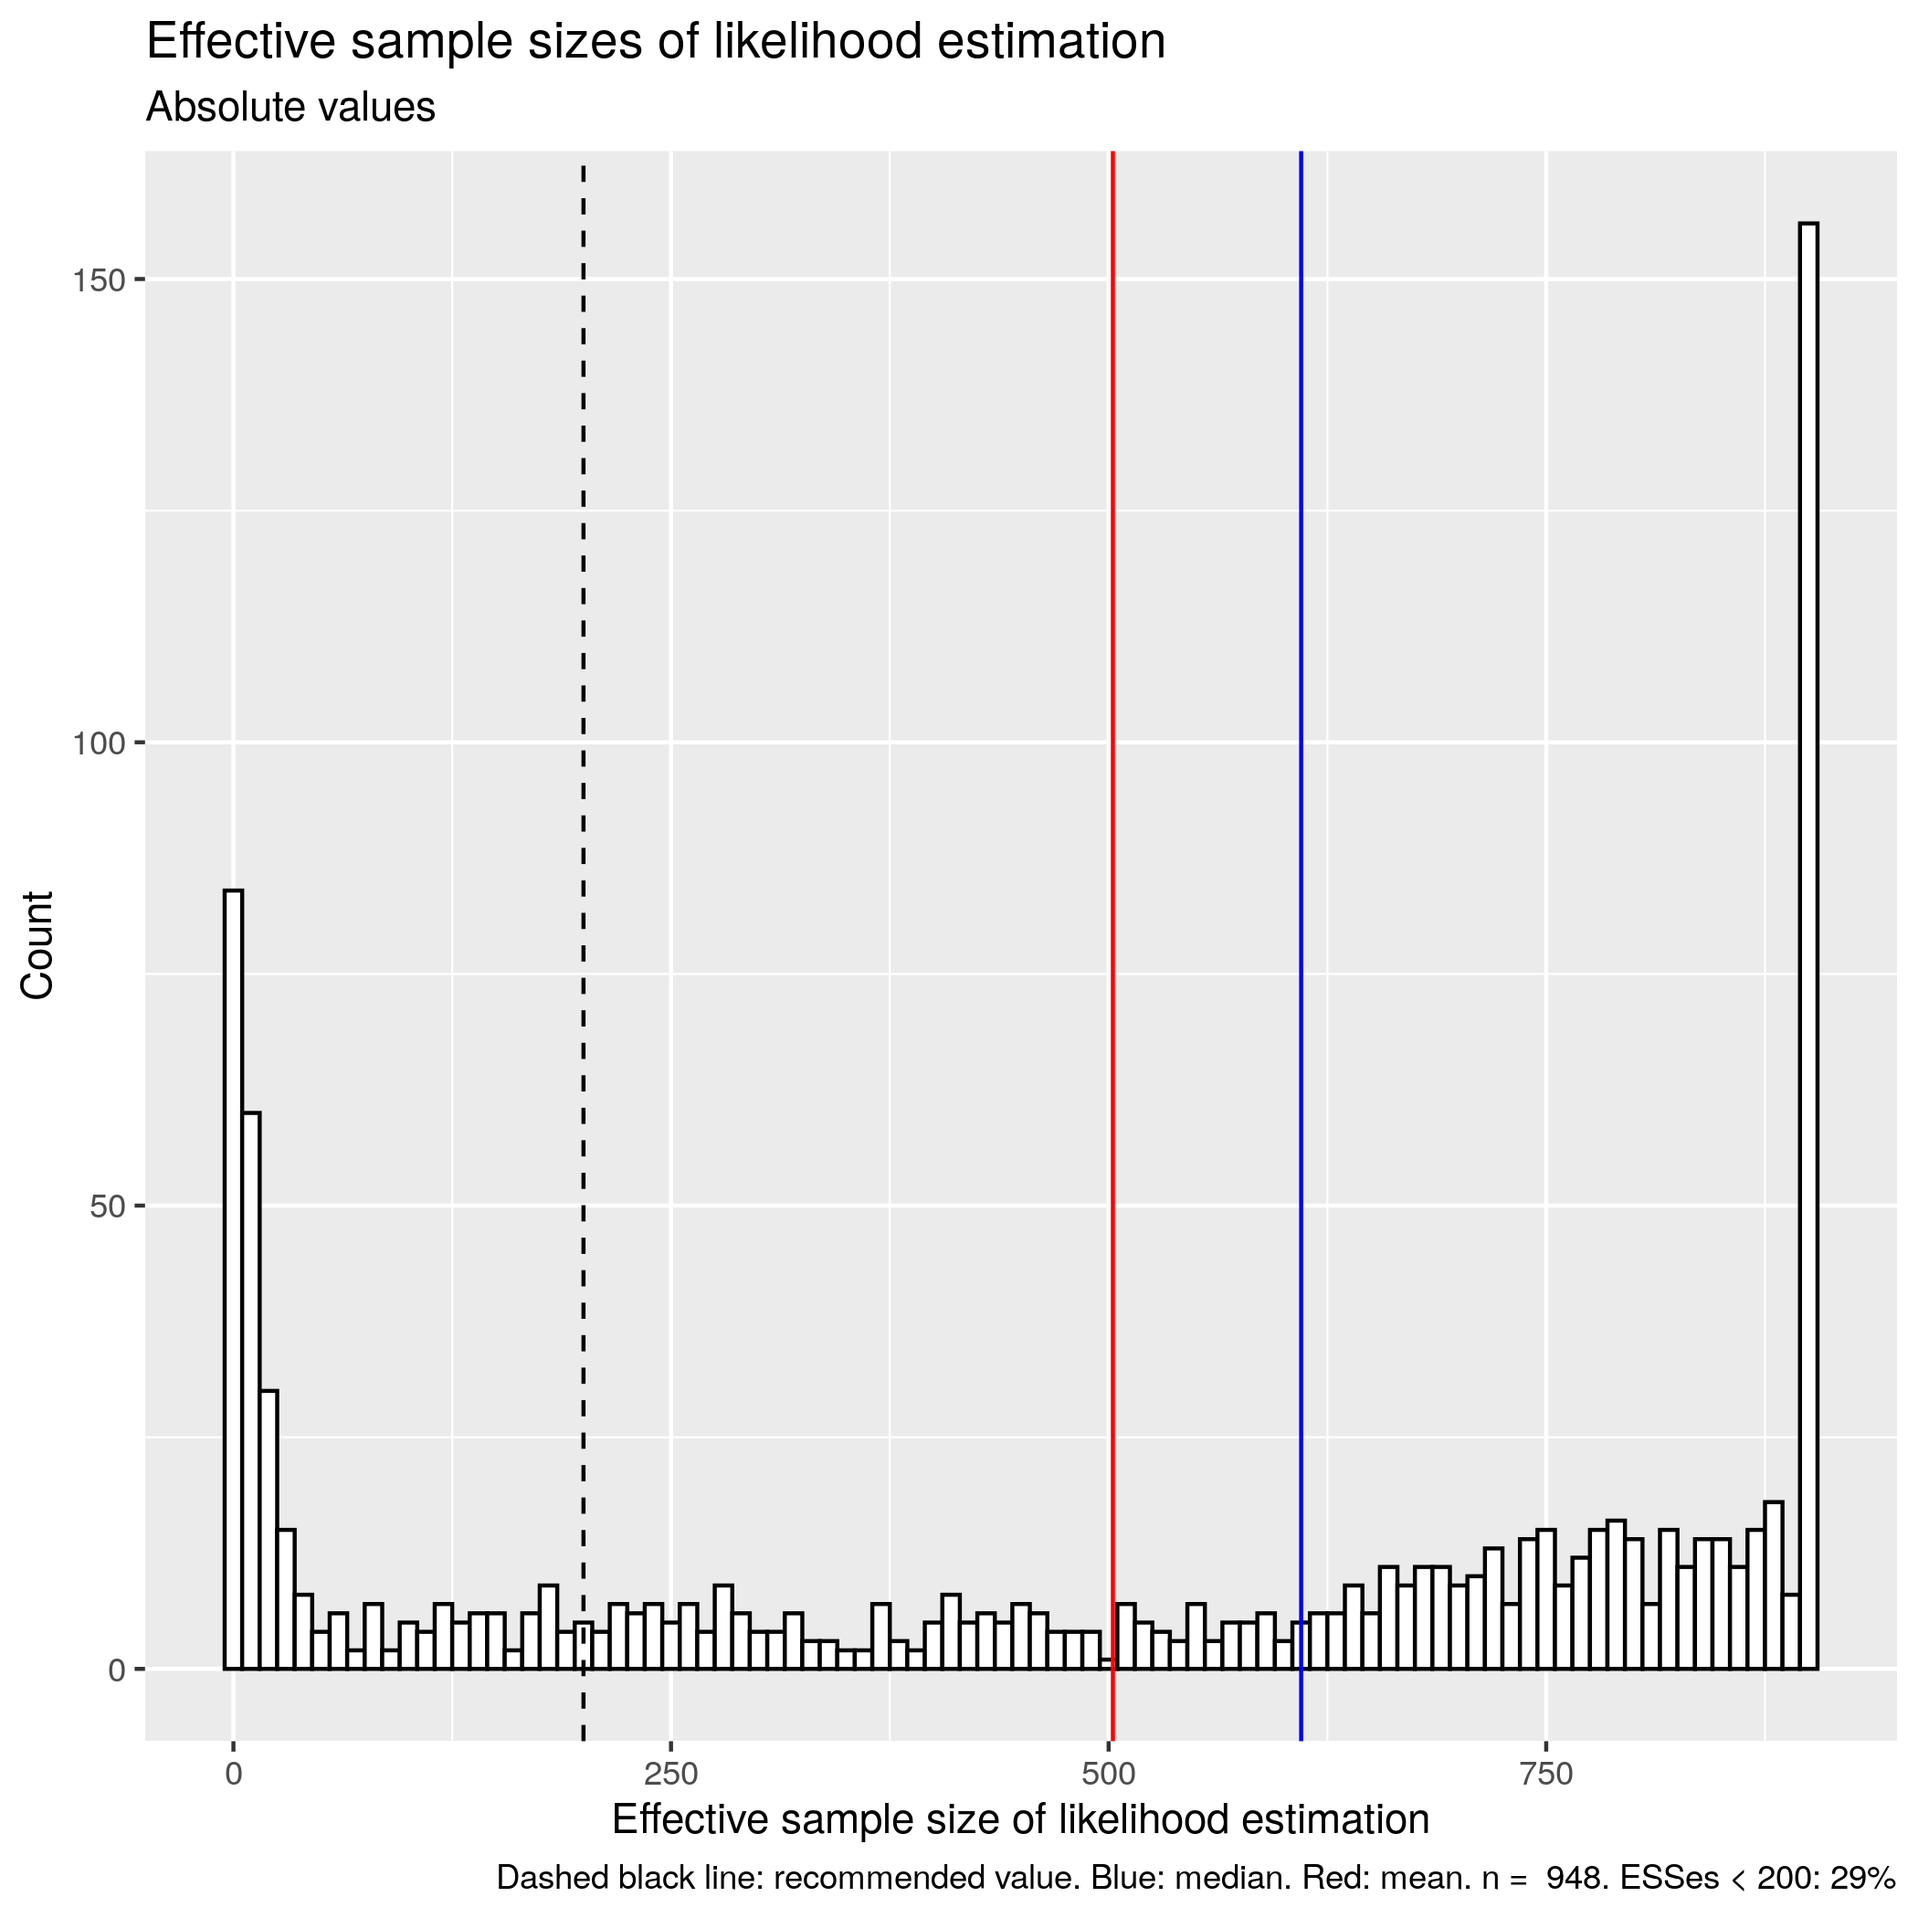
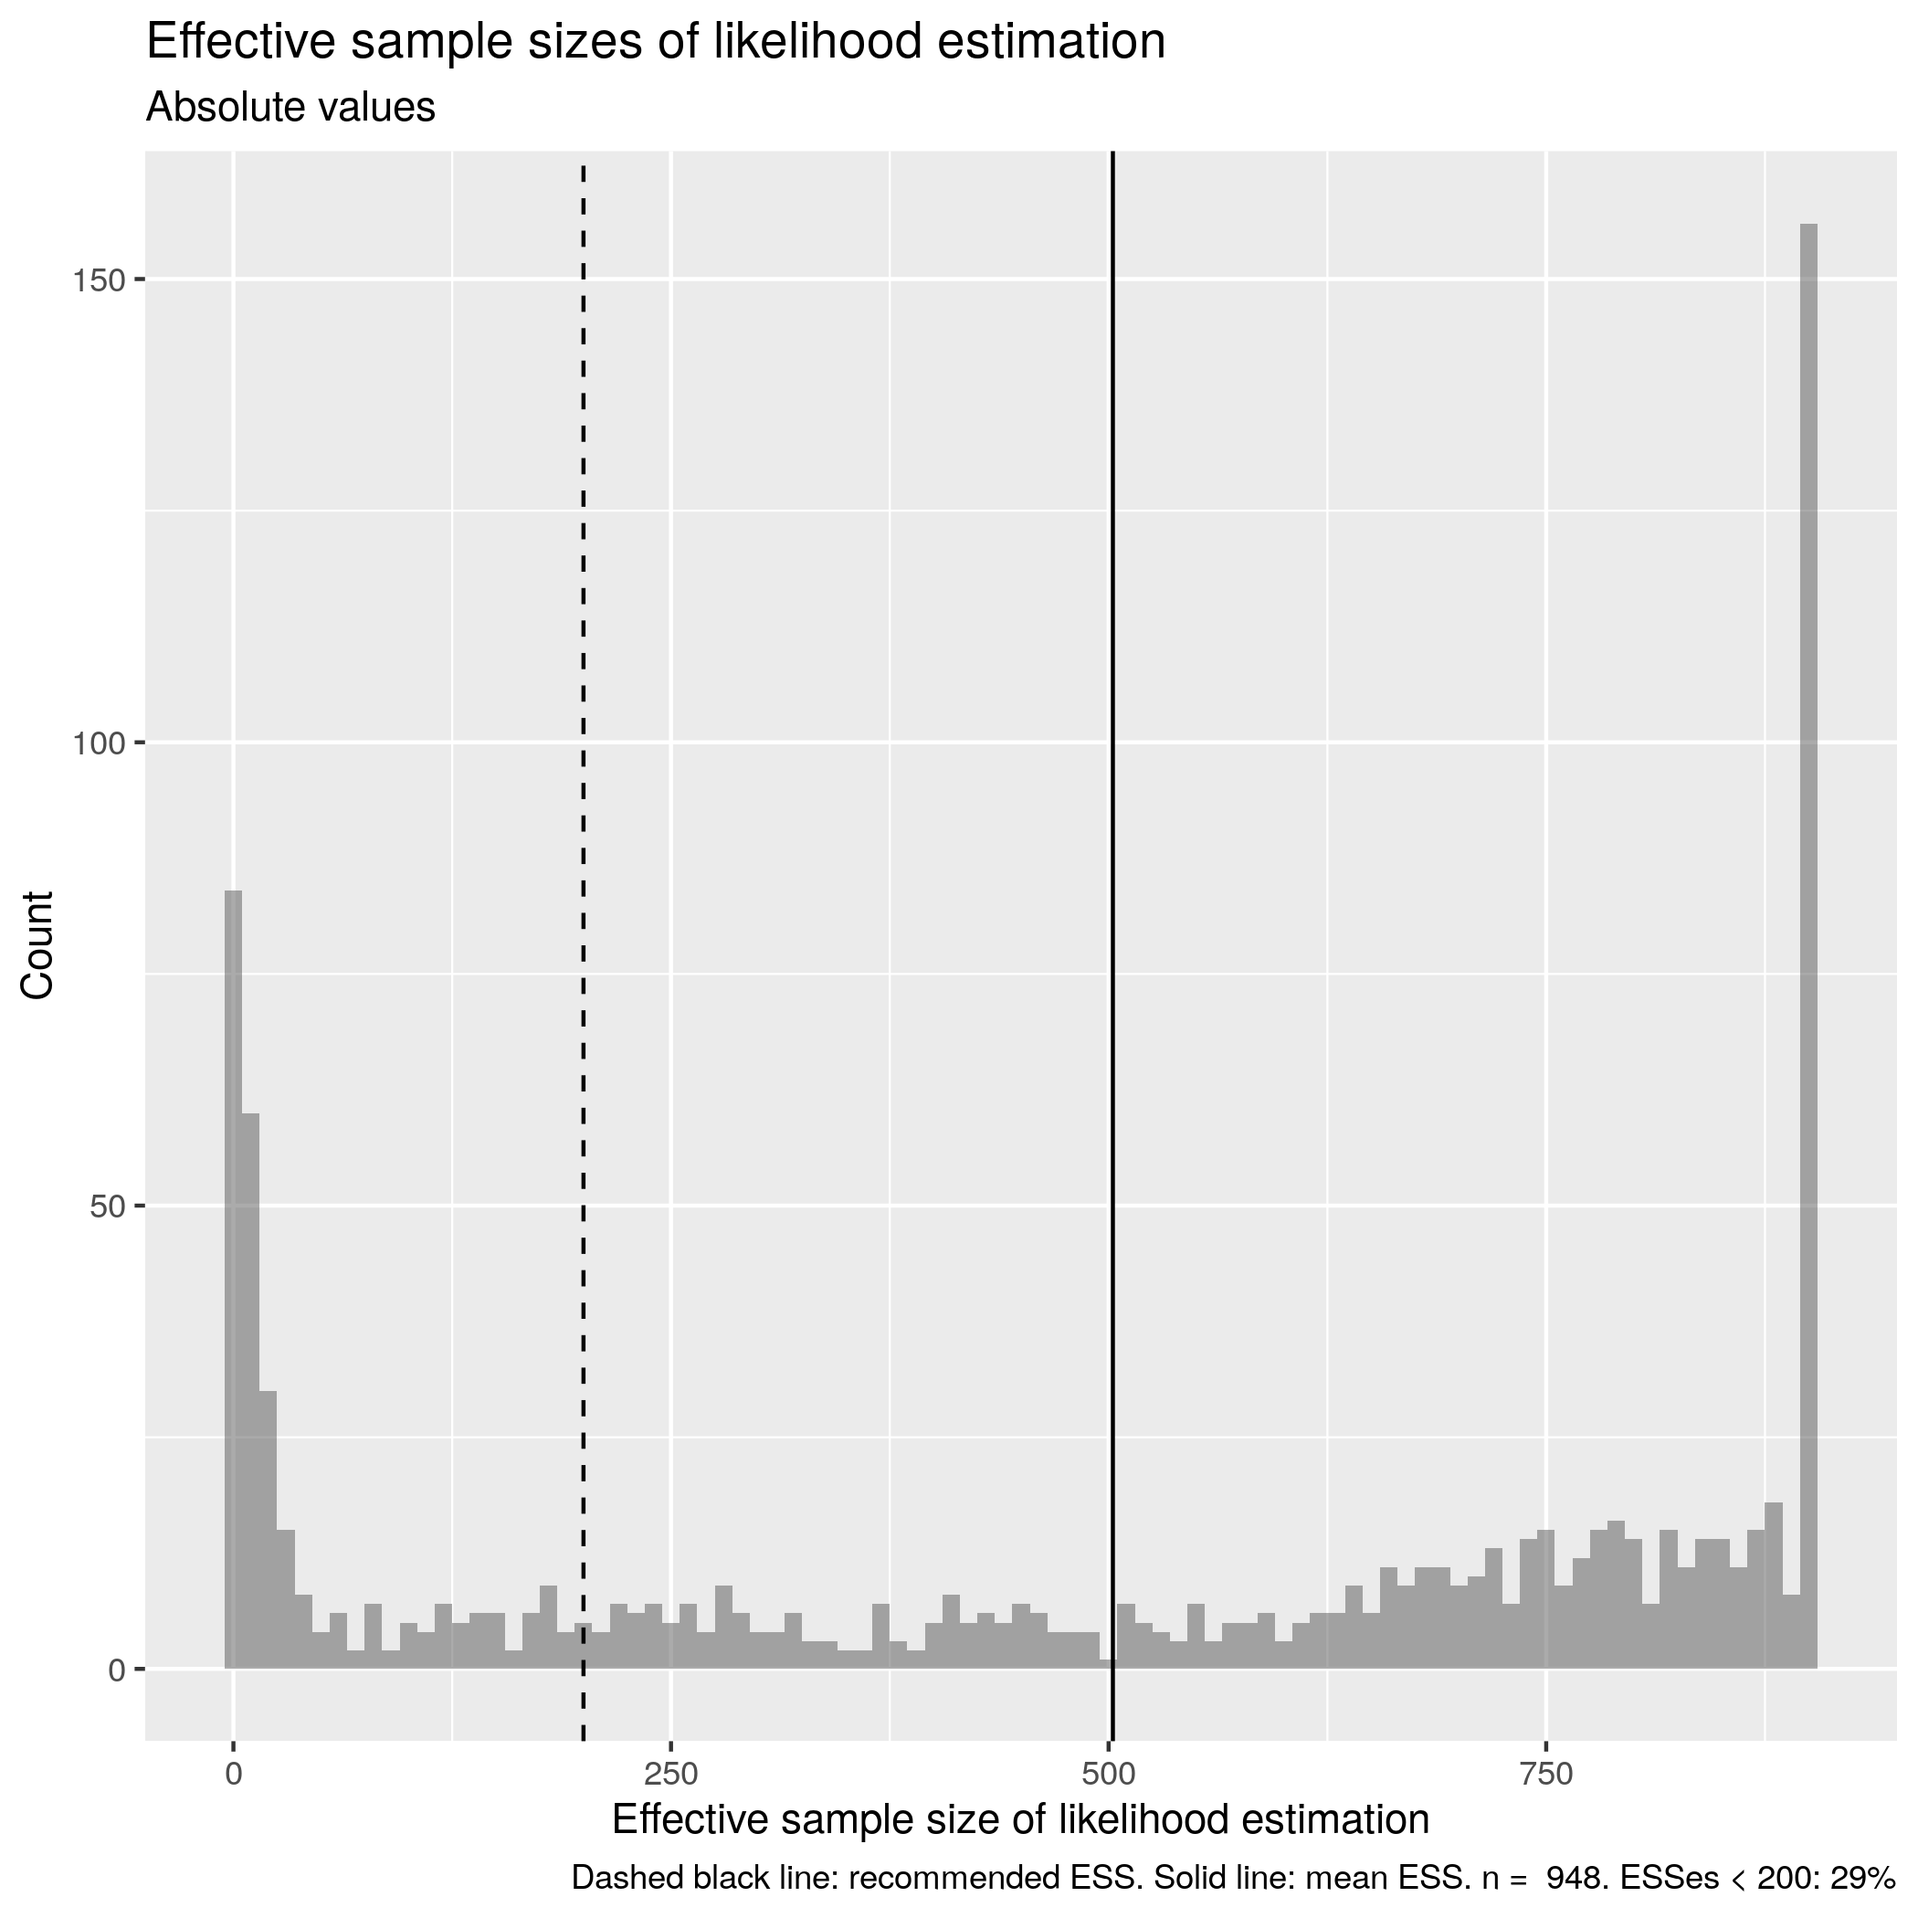
Show ESSes nicely, fix https://github.com/richelbilderbeek/razzo/issues/266

Changed region(s): [[0.0929, 0.0929, 0.9595, 0.8976], [0.2476, 0.9595, 0.7738, 0.9905]]

diff --git a/razzo-supplement.tex b/razzo-supplement.tex
@@ -15,7 +15,8 @@
 \begin{figure}[!htbp]
   \includegraphics[width=\textwidth]{20190905_fig_esses_cumulative.png}
   \label{fig:esses_cumulative}
-  \caption{\richel{n = 901 is something sloppy}}
+  \caption{\richel{n = 901 is something sloppy: not all ESSes (e.g. 123 are
+  present)}}
 \end{figure}
 
 
